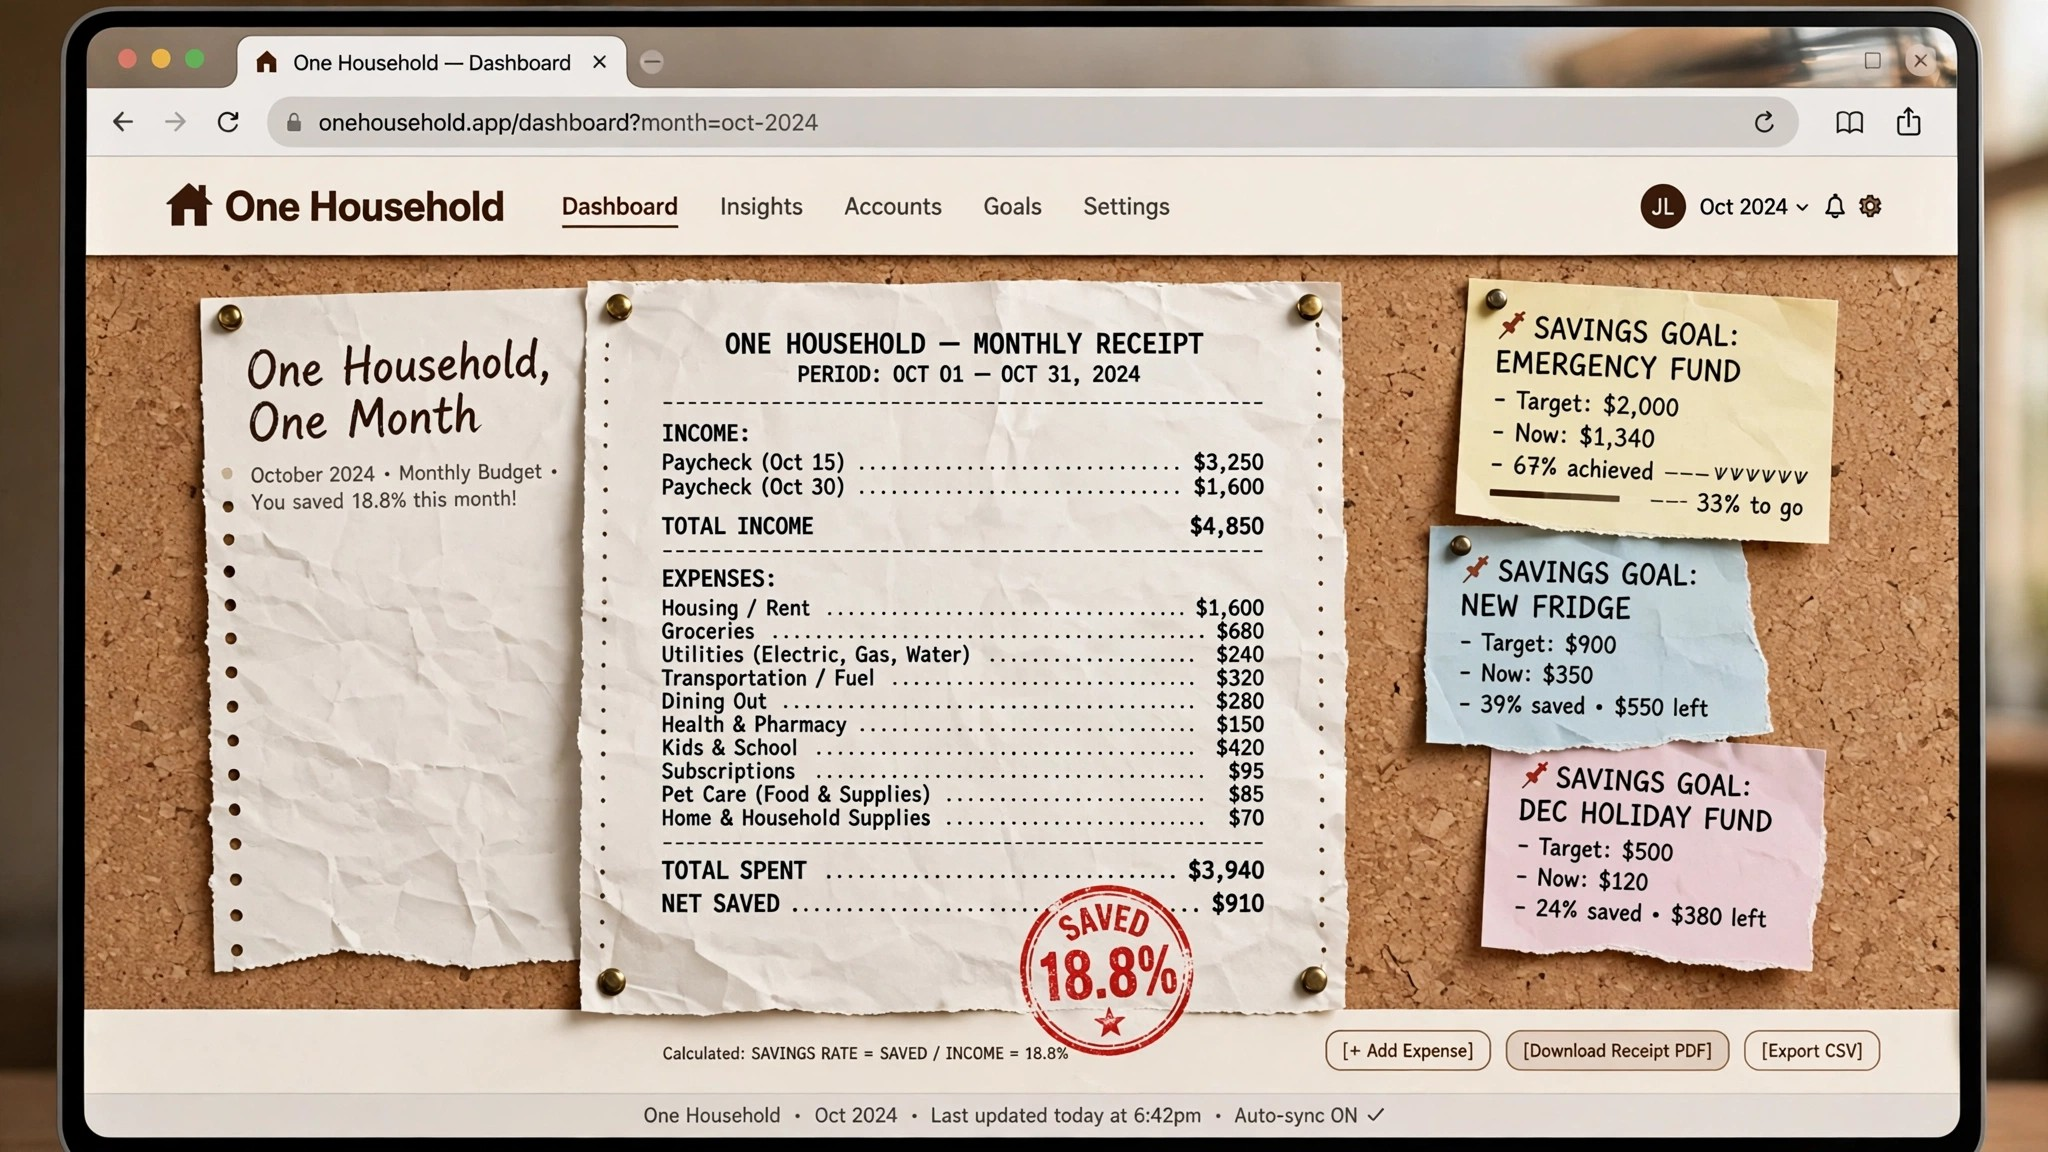
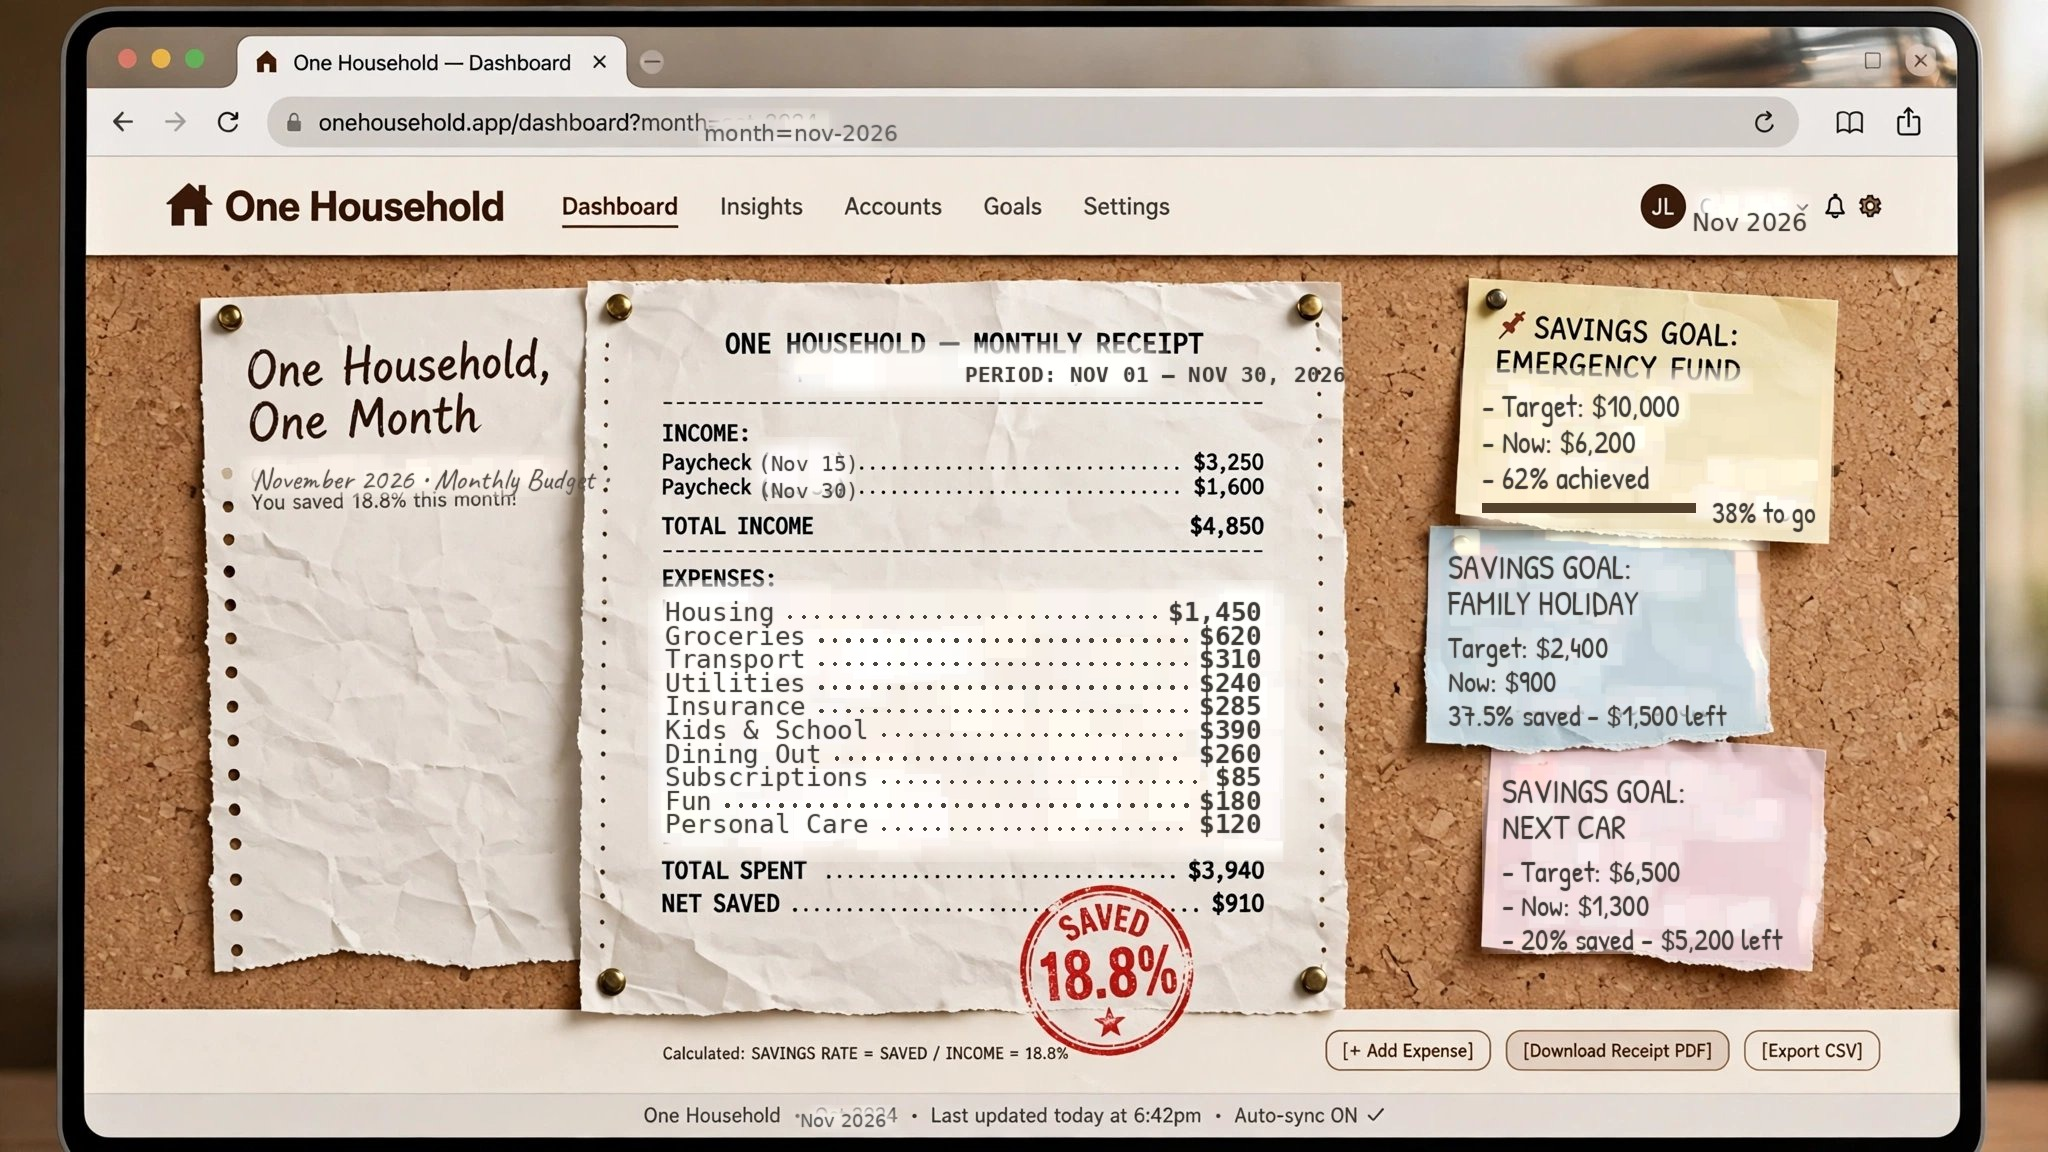
in-image edited scene from Lisa upload

diff --git a/index.html b/index.html
@@ -8,30 +8,14 @@
 </head>
 <body>
 <!-- The dashboard IS the approved design: the original scene, used as-is.
-     The numbers printed on its papers that belonged to the mockup's own
-     example (period, expense rows, goal notes) are covered by live patches
-     carrying this household's real figures from data.js. The totals printed
-     in the scene itself — $4,850 in, $3,940 out, $910 saved, 18.8% — already
-     are this household's numbers. -->
+     Its papers were reprinted in the image itself with this household's
+     real figures (period Nov 2026, the ten brief categories, the three
+     brief goals), so the scene is one static photograph — no overlays.
+     The live figures live in the sheet below and in the Planner. -->
 <div class="stage" id="stage">
   <img src="assets/dashboard-scene.jpg" alt="One Household dashboard: a laptop on a cork board showing the monthly receipt, a notebook page and three savings goal notes">
   <a class="hot" style="left:28.6%; top:10.6%; width:7.6%; height:4.6%" href="index.html" aria-label="Dashboard"></a>
   <a class="hot" style="left:49.6%; top:10.6%; width:5.4%; height:4.6%" href="goals.html" aria-label="Goals"></a>
-
-  <div class="ov patch-hard flex-c" id="ov-period" style="left:36.0%; top:31.2%; width:23.0%; height:3.6%">PERIOD: NOV 01 — NOV 30, 2026</div>
-
-  <div class="ov patch-paper" style="left:31.4%; top:38.1%; width:30.7%; height:6.0%; padding:.35cqw .45cqw">
-    <div class="rline"><span>Paycheck (Nov 15)</span><span class="leader"></span><span class="amt">$3,250</span></div>
-    <div class="rline"><span>Paycheck (Nov 30)</span><span class="leader"></span><span class="amt">$1,600</span></div>
-  </div>
-
-  <div class="ov patch-hard" id="ov-expenses" style="left:31.0%; top:51.9%; width:31.7%; padding:.3cqw .45cqw"></div>
-
-  <div class="ov patch-paper flex-c" id="ov-month" style="left:11.0%; top:39.6%; width:18.6%; height:3.2%; justify-content:flex-start; padding-left:.4cqw">November 2026 • Monthly Budget •</div>
-
-  <div class="ov flex-c" id="ov-cal" style="left:80.6%; top:15.9%; width:6.4%; height:3.2%; background:#f8f3e8; font-family:Arial, sans-serif; font-size:.92cqw; color:#3d3630">Nov 2026 ⌄</div>
-
-  <div id="ov-notes"></div>
 </div>
 
 <div class="sheet-wrap">
@@ -73,26 +57,7 @@ const out = M.totalOut(d), left = M.leftover(d);
 const needs = M.bucketTotal(d, 'needs'), wants = M.bucketTotal(d, 'wants');
 const rate = M.pct(left, d.income);
 
-// Live patches over the scene's papers, all from the one data object.
-document.getElementById('ov-expenses').innerHTML = d.categories.map(c =>
-  `<div class="rline"><span>${c.name}</span><span class="leader"></span><span class="amt">${M.money(c.amount)}</span></div>`).join('');
-
-const notePos = [
-  'left:71.2%; top:24.2%; width:18.5%; height:23.2%; transform:rotate(-1.2deg); background-color:#f6ebbb',
-  'left:69.7%; top:45.7%; width:17.0%; height:20.0%; transform:rotate(1deg); background-color:#d9eaf8',
-  'left:72.4%; top:64.9%; width:16.8%; height:20.0%; transform:rotate(-.6deg); background-color:#f8e1ec'
-];
-document.getElementById('ov-notes').innerHTML = d.goals.map((g, i) => {
-  const p = M.pct(g.saved, g.target);
-  return `<div class="ov note-ov" style="${notePos[i]}">
-    <h4>Savings goal: ${g.name}</h4>
-    <p>- Target: ${M.money(g.target)}</p>
-    <p>- Now: ${M.money(g.saved)}</p>
-    <p>- ${p.toFixed(1)}% saved · ${M.money(g.target - g.saved)} left</p>
-  </div>`;
-}).join('');
-
-// Live data section below the scene.
+// Live data section below the scene (the scene itself is a static image).
 document.getElementById('summary-cards').innerHTML = [
   ['Money in', M.money(d.income), 'One month of household income'],
   ['Money out', M.money(out), d.categories.length + ' spending categories'],

diff --git a/style.css b/style.css
@@ -176,7 +176,7 @@ body {
 .note-card .bar { height: 9px; background: rgba(255, 255, 255, .65); border: 1px solid rgba(51, 48, 42, .35); margin: 9px 0 5px; }
 .note-card .bar > div { height: 100%; background: rgba(51, 48, 42, .85); }
 
-/* ---------- the dashboard stage: the approved scene itself, with live patches ---------- */
+/* ---------- the dashboard stage: the approved scene itself, one static image ---------- */
 .stage {
   position: relative; container-type: inline-size;
   max-width: 1400px; margin: 20px auto 10px;
@@ -184,39 +184,6 @@ body {
 }
 .stage > img { width: 100%; display: block; }
 .stage .hot { position: absolute; display: block; }
-.ov { position: absolute; font-family: var(--mono); color: #2e2a24; }
-.ov .rline { padding: .16cqw 0; font-size: .99cqw; line-height: 1.25; }
-.patch-hard {
-  background-image:
-    linear-gradient(rgba(255, 253, 244, .18), rgba(255, 253, 244, .18)),
-    url('assets/paper.jpg');
-  background-size: auto, 58cqw auto;
-  -webkit-mask-image: radial-gradient(ellipse 88% 88% at 50% 50%, #000 86%, transparent 99%);
-  mask-image: radial-gradient(ellipse 88% 88% at 50% 50%, #000 86%, transparent 99%);
-}
-.ov .rline .leader { border-bottom: 2px dotted rgba(90, 82, 66, .75); }
-.patch-paper {
-  background-image:
-    linear-gradient(rgba(255, 253, 244, .38), rgba(255, 253, 244, .38)),
-    url('assets/paper.jpg');
-  background-size: auto, 58cqw auto;
-  -webkit-mask-image: radial-gradient(ellipse 78% 78% at 50% 50%, #000 58%, transparent 98%);
-  mask-image: radial-gradient(ellipse 78% 78% at 50% 50%, #000 58%, transparent 98%);
-}
-.flex-c { display: flex; align-items: center; justify-content: center; }
-#ov-period { font-weight: bold; font-size: .92cqw; letter-spacing: .13em; white-space: nowrap; }
-#ov-month { font-family: var(--hand); font-size: 1.35cqw; color: #3d3630; white-space: nowrap; }
-.note-ov {
-  padding: .75cqw .85cqw;
-  background-image:
-    linear-gradient(rgba(255, 255, 255, .22), rgba(255, 255, 255, .22)),
-    url('assets/paper.jpg');
-  background-size: auto, 34cqw auto;
-  -webkit-mask-image: radial-gradient(ellipse 82% 82% at 50% 50%, #000 82%, transparent 99%);
-  mask-image: radial-gradient(ellipse 82% 82% at 50% 50%, #000 82%, transparent 99%);
-}
-.note-ov h4 { margin: 0 0 .5cqw; font-size: 1.04cqw; text-transform: uppercase; letter-spacing: .04em; line-height: 1.3; }
-.note-ov p { margin: .28cqw 0; font-size: .94cqw; }
 .pills-in-sheet { display: flex; gap: 18px; justify-content: center; flex-wrap: wrap; margin-bottom: 6px; }
 .pills-in-sheet a { color: var(--ink); text-decoration: none; font-size: 15px; padding: 2px 2px; }
 .pills-in-sheet a.active { font-weight: bold; border-bottom: 2px solid var(--ink); }
